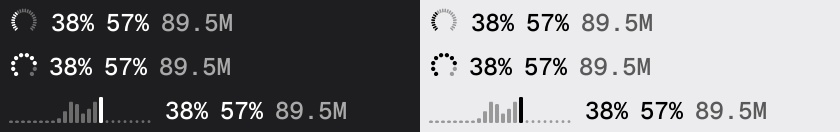
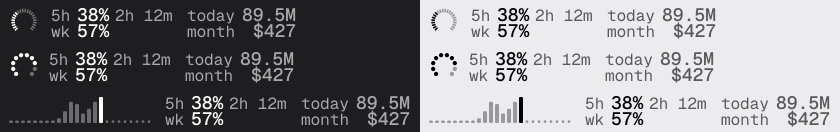
90% interface zoom, even grid columns; two-row menu bar with short labels

diff --git a/gui/menubar.go b/gui/menubar.go
@@ -6,6 +6,7 @@ import (
 	"image/color"
 	"image/png"
 	"math"
+	"strings"
 	"sync"
 
 	"golang.org/x/image/font"
@@ -40,6 +41,7 @@ type mbSeg struct {
 
 type mbOpts struct {
 	Style mbStyle
+	Rows  int // 2 stacks the values in two rows with their labels; 1 (or 0) keeps one line
 	Pace  bool
 	Icon  bool
 	Red   bool // turn red near the limit
@@ -53,6 +55,7 @@ const mbScale = 2 // @2x pixels per point; the image is 18 pt tall
 var (
 	mbFontOnce             sync.Once
 	mbFace, mbSmall, mbMid font.Face
+	mbRowFace, mbRowLabel  font.Face // the two-row layout's values and labels
 )
 
 func mbFonts() {
@@ -72,6 +75,8 @@ func mbFonts() {
 		mbFace = load("GeistMono-Medium.ttf", 12)
 		mbMid = load("GeistMono-Medium.ttf", 10.5)
 		mbSmall = load("Geist-SemiBold.ttf", 8.5)
+		mbRowFace = load("GeistMono-Medium.ttf", 9)
+		mbRowLabel = load("GeistMono-Regular.ttf", 8)
 	})
 }
 
@@ -80,6 +85,7 @@ type mbCanvas struct {
 	ink, alert, dim, soft *image.Alpha // soft: secondary values (62 %); dim: the gauge's rest (35 %)
 	w, h                  int
 	x                     float64 // pen position in pixels
+	red                   bool    // hot values draw in the alert layer
 }
 
 func newMBCanvas(w int) *mbCanvas {
@@ -215,6 +221,7 @@ func renderMenuBar(segs []mbSeg, o mbOpts) ([]byte, bool) {
 	mbFonts()
 	// Measure with a generous canvas, then crop to the drawn width.
 	cv := newMBCanvas(1600)
+	cv.red = o.Red
 	x := 2.0 * mbScale
 	gap := 6.0 * mbScale
 	mid := float64(cv.h) / 2
@@ -238,6 +245,11 @@ func renderMenuBar(segs []mbSeg, o mbOpts) ([]byte, bool) {
 		glyph = true
 	case o.Icon || len(segs) == 0:
 		x += cv.glyph(x) + 5*mbScale
+	}
+	if o.Rows == 2 && textSegs(segs) > 1 {
+		x = cv.rows(segs, x, gap, pick(glyph, bars, -1))
+		w := int(math.Ceil(x + 2*mbScale))
+		return composeMenuBar(cv, w, o)
 	}
 	n := 0
 	for i, s := range segs {
@@ -269,6 +281,96 @@ func renderMenuBar(segs []mbSeg, o mbOpts) ([]byte, bool) {
 	}
 	w := int(math.Ceil(x + 2*mbScale))
 	return composeMenuBar(cv, w, o)
+}
+
+func textSegs(segs []mbSeg) int {
+	n := 0
+	for _, s := range segs {
+		if len(s.Bars) == 0 {
+			n++
+		}
+	}
+	return n
+}
+
+// rows lays the values out in columns of two rows, each a dim label and its value, the values right-aligned in
+// their column; a bars item stays full height between columns, and an odd last value sits centred. skip is the
+// bars item already drawn as the leading glyph.
+func (cv *mbCanvas) rows(segs []mbSeg, x, gap float64, skip int) float64 {
+	mid := float64(cv.h) / 2
+	top, bottom := mid-0.75*mbScale, mid+7.6*mbScale // baselines of the two rows in an 18 pt bar
+	labelGap := 3.5 * mbScale
+	var col []mbSeg
+	n := 0
+	flush := func() {
+		if len(col) == 0 {
+			return
+		}
+		if n > 0 {
+			x += gap + 1*mbScale
+		}
+		// Three sub-columns: labels left-aligned, values right-aligned, countdowns left-aligned after them.
+		lw, vw, aw := 0.0, 0.0, 0.0
+		for _, s := range col {
+			lw = math.Max(lw, cv.label(s.Label, 0, 0, false))
+			vw = math.Max(vw, measure(mbRowFace, s.Value))
+			if s.After != "" {
+				aw = math.Max(aw, 3*mbScale+measure(mbRowLabel, s.After))
+			}
+		}
+		if lw > 0 {
+			lw += labelGap
+		}
+		for i, s := range col {
+			base := pick(len(col) == 1, mid+3.2*mbScale, pick(i == 0, top, bottom))
+			cv.label(s.Label, x, base, true)
+			v := measure(mbRowFace, s.Value)
+			hot := s.Hot && cv.red
+			cv.text(mbRowFace, s.Value, x+lw+vw-v, base, pick(s.Pct < 0 && !hot, cv.soft, cv.layer(hot, false)))
+			if s.After != "" {
+				cv.text(mbRowLabel, s.After, x+lw+vw+3*mbScale, base, cv.soft)
+			}
+		}
+		vw += aw
+		x += lw + vw
+		col = col[:0]
+		n++
+	}
+	for i, s := range segs {
+		if len(s.Bars) > 0 {
+			flush()
+			if i == skip {
+				continue
+			}
+			if n > 0 {
+				x += gap
+			}
+			x += cv.miniBars(x, s)
+			n++
+			continue
+		}
+		col = append(col, s)
+		if len(col) == 2 {
+			flush()
+		}
+	}
+	flush()
+	return x
+}
+
+// label draws (or only measures) a two-row label; words sit a narrow gap apart, not a mono space ("cl 5h").
+func (cv *mbCanvas) label(text string, x, base float64, draw bool) float64 {
+	w := 0.0
+	for i, part := range strings.Fields(text) {
+		if i > 0 {
+			w += 2 * mbScale
+		}
+		if draw {
+			cv.text(mbRowLabel, part, x+w, base, cv.soft)
+		}
+		w += measure(mbRowLabel, part)
+	}
+	return w
 }
 
 // miniBars paints a bars item (today by hour, the last 7 days): the current bar in ink, the rest dim, future

diff --git a/gui/menubar_test.go b/gui/menubar_test.go
@@ -15,7 +15,8 @@ func demoSegs() map[string][]mbSeg {
 	hours := []float64{0, 0, 0, 0, 0, 0, 0, 0, 2, 5, 9, 8, 4, 6, 9, 11, 7, 0, 0, 0, 0, 0, 0, 0}
 	return map[string][]mbSeg{
 		"claude": {{Label: "5h", Value: "38%", Pct: 38, Pace: 0.52}, {Label: "wk", Value: "57%", Pct: 57, Pace: 0.62}},
-		"three":  {{Label: "Claude 5h", Value: "38%", Pct: 38, Pace: 0.52}, {Label: "Codex 5h", Value: "12%", Pct: 12, Pace: 0.39}, {Label: "Cursor wk", Value: "44%", Pct: 44, Pace: 0.48}},
+		"three":  {{Label: "cl 5h", Value: "38%", Pct: 38, Pace: 0.52}, {Label: "cx 5h", Value: "12%", Pct: 12, Pace: 0.39}, {Label: "cu wk", Value: "44%", Pct: 44, Pace: 0.48}},
+		"four":   {{Label: "5h", Value: "38%", Pct: 38, Pace: 0.52, After: "2h 12m"}, {Label: "wk", Value: "57%", Pct: 57, Pace: 0.62}, {Label: "today", Value: "89.5M", Pct: -1}, {Label: "month", Value: "$427", Pct: -1}},
 		"today":  {{Label: "5h", Value: "38%", Pct: 38, Pace: 0.52}, {Label: "wk", Value: "57%", Pct: 57, Pace: 0.62}, {Label: "today", Value: "89.5M", Pct: -1}},
 		"hot":    {{Label: "5h", Value: "86%", Pct: 86, Pace: 0.7, Hot: true}, {Label: "wk", Value: "57%", Pct: 57, Pace: 0.62}},
 		"hours":  {{Bars: hours, Now: 15, Pct: -1}, {Label: "today", Value: "$55", Pct: -1}},
@@ -26,12 +27,13 @@ func demoSegs() map[string][]mbSeg {
 // TestMenuBarRenders checks every style draws something; with SIMPLETOKEN_SHOTS it also writes a contact sheet.
 func TestMenuBarRenders(t *testing.T) {
 	styles := []mbStyle{mbGauge, mbNumbers, mbBars}
-	names := []string{"claude", "three", "today", "hot", "hours", "empty"}
+	names := []string{"claude", "three", "four", "today", "hot", "hours", "empty"}
 	var rows []image.Image
 	for _, dark := range []bool{true, false} {
 		for _, n := range names {
-			for _, st := range styles {
-				o := mbOpts{Style: st, Pace: true, Icon: true, Red: true, Dark: dark}
+			for _, cell := range [6][2]int{{0, 1}, {1, 1}, {2, 1}, {0, 2}, {1, 2}, {2, 2}} {
+				st := styles[cell[0]]
+				o := mbOpts{Style: st, Rows: cell[1], Pace: true, Icon: true, Red: true, Dark: dark}
 				data, tmpl := renderMenuBar(demoSegs()[n], o)
 				img, err := png.Decode(bytes.NewReader(data))
 				if err != nil {
@@ -54,9 +56,9 @@ func TestMenuBarRenders(t *testing.T) {
 	if dir == "" {
 		return
 	}
-	sheet := image.NewNRGBA(image.Rect(0, 0, 3*300, len(rows)/3*44))
+	sheet := image.NewNRGBA(image.Rect(0, 0, 6*300, len(rows)/6*44))
 	for i, im := range rows {
-		x, y := (i%3)*300, (i/3)*44
+		x, y := (i%6)*300, (i/6)*44
 		draw.Draw(sheet, image.Rect(x, y, x+300, y+44), im, image.Point{}, draw.Src)
 	}
 	f, _ := os.Create(filepath.Join(dir, "menubar.png"))

diff --git a/internal/settings/settings.go b/internal/settings/settings.go
@@ -55,6 +55,7 @@ type Settings struct {
 	MenuBarShowIcon   bool     `json:"menuBarShowIcon"`
 	MenuBarShowPace   bool     `json:"menuBarShowPace"`
 	MenuBarShowReset  bool     `json:"menuBarShowReset"`
+	MenuBarRows       int      `json:"menuBarRows"` // 1: one line; 2: values stacked in two rows with short labels
 
 	// Panel
 	PanelSections   []string `json:"panelSections"`
@@ -111,13 +112,16 @@ var Cards = []string{
 var DefaultHidden = []string{"stat.totalCost", "stat.messages", "stat.topModel", "stat.weekday"}
 
 // Default returns the settings of a fresh install.
+// maxMenuBarItems fills two rows of two columns.
+const maxMenuBarItems = 4
+
 func Default() Settings {
 	return Settings{
 		ClickOpensPanel: true, Range: "1M", Metric: "tokens", AutoUpdate: true,
 		Theme: "system", Palette: "graphite", SeriesColors: "vendor", VendorMarks: "color", PanelMaterial: "glass",
 		LiveRefreshSeconds: 30, FullRefreshMinutes: 15,
 		LimitShowUsed: true, AlertThresholds: []float64{50, 80}, LimitShowPace: true, LimitShowModelBuckets: true,
-		MenuBarItems: []string{"claude.session"}, MenuBarStyle: "gauge", MenuBarAlertColor: true, MenuBarShowIcon: true, MenuBarShowPace: true,
+		MenuBarItems: []string{"claude.session"}, MenuBarStyle: "gauge", MenuBarRows: 2, MenuBarAlertColor: true, MenuBarShowIcon: true, MenuBarShowPace: true,
 		PanelSections: []string{"claude", "codex", "today", "models", "week"}, PanelWidth: 340, PanelLimitStyle: "gauges",
 		PanelListCount: 5, PanelTodayStyle: "cumulative", PanelShowResets: true,
 		ModelColorOverrides: map[string]string{}, ToolColorOverrides: map[string]string{}, ModelAliases: map[string]string{},
@@ -203,8 +207,11 @@ func (s *Settings) normalize() {
 	default:
 		s.MenuBarStyle = "gauge"
 	}
-	if len(s.MenuBarItems) > 3 {
-		s.MenuBarItems = s.MenuBarItems[:3]
+	if s.MenuBarRows != 1 {
+		s.MenuBarRows = 2
+	}
+	if len(s.MenuBarItems) > maxMenuBarItems {
+		s.MenuBarItems = s.MenuBarItems[:maxMenuBarItems]
 	}
 	// Every known card appears once in the order (new cards are appended).
 	seen := map[string]bool{}

diff --git a/gui/settings_page.go b/gui/settings_page.go
@@ -333,8 +333,9 @@ func (a *ctrl) setMenuBar(c *ui.Context, p palette) {
 		})
 		a.sGroup(c, p, "mb", func() {
 			a.segRow(c, p, "style", L("Style"), L("Gauge glyph, plain numbers, or today's hours as bars"), &s.MenuBarStyle, [][2]string{{"gauge", "Gauge"}, {"numbers", "Numbers"}, {"bars", "Bars"}})
-			a.sRow(c, p, "items", L("Items"), L("Up to three, left to right. Drag to reorder."), func() {
-				a.orderList(c, p, "list", &s.MenuBarItems, menuBarItems, 3, func(id string) { swatch(c, a.itemColor(p, id), 7) })
+			a.intSeg(c, p, "rows", L("Layout"), L("Two rows stack the values with short labels and take less width"), &s.MenuBarRows, []int{2, 1}, func(v int) string { return pick(v == 1, L("One line"), L("Two rows")) })
+			a.sRow(c, p, "items", L("Items"), L("Up to four; two rows fill each column top to bottom. Drag to reorder."), func() {
+				a.orderList(c, p, "list", &s.MenuBarItems, menuBarItems, 4, func(id string) { swatch(c, a.itemColor(p, id), 7) })
 			})
 			a.thresholdRow(c, p)
 			a.toggleRow(c, p, "reset", L("Show reset countdown"), L("Adds “2h 12m” after a session value"), &s.MenuBarShowReset)
@@ -388,7 +389,7 @@ func (a *ctrl) thresholdRow(c *ui.Context, p palette) {
 // mbOptions are the renderer's options from the settings.
 func (a *ctrl) mbOptions(dark, preview bool) mbOpts {
 	s := a.m.s
-	return mbOpts{Style: mbStyle(s.MenuBarStyle), Pace: s.MenuBarShowPace, Icon: s.MenuBarShowIcon, Red: s.MenuBarAlertColor, Dark: dark, Preview: preview}
+	return mbOpts{Style: mbStyle(s.MenuBarStyle), Rows: s.MenuBarRows, Pace: s.MenuBarShowPace, Icon: s.MenuBarShowIcon, Red: s.MenuBarAlertColor, Dark: dark, Preview: preview}
 }
 
 // menuBarPreview shows a rendered item on a strip of the bar's colour (a template image is tinted like macOS does).

diff --git a/gui/app.go b/gui/app.go
@@ -583,11 +583,16 @@ func (a *ctrl) openWindow(settingsPage bool) {
 
 // ── Menu bar item ──
 
+// mbItemLabels are the short codes beside values in the two-row menu bar. They stay English in every language:
+// the menu bar's mono face has no CJK glyphs, and the codes are as short as the values.
 var mbItemLabels = map[string]string{
-	"claude.session": "5h", "claude.weekly": "wk", "claude.fable": "Fable", "codex.session": "5h", "codex.weekly": "wk",
+	"claude.session": "5h", "claude.weekly": "wk", "claude.fable": "fable", "codex.session": "5h", "codex.weekly": "wk",
 	"cursor.weekly": "wk", "today.tokens": "today", "today.cost": "today", "month.cost": "month", "claude.reset": "reset",
 	"today.hours": "today", "week.days": "7d",
 }
+
+// mbProviderCodes prefix a limit's code when the menu bar shows more than one provider's limits.
+var mbProviderCodes = map[string]string{"claude": "cl", "codex": "cx", "cursor": "cu"}
 
 // menuBarSegs turns the chosen items into segments for the renderer.
 func (a *ctrl) menuBarSegs() []mbSeg {
@@ -601,7 +606,7 @@ func (a *ctrl) menuBarSegs() []mbSeg {
 	}
 	var segs []mbSeg
 	for _, it := range m.s.MenuBarItems {
-		label := L(mbItemLabels[it])
+		label := mbItemLabels[it]
 		prov, kind, _ := cutDot(it)
 		switch it {
 		case "today.tokens":
@@ -637,7 +642,7 @@ func (a *ctrl) menuBarSegs() []mbSeg {
 			pace, _ := w.Elapsed(now)
 			hot := w.UsedPercent >= m.s.TopThreshold()
 			if len(providers) > 1 {
-				label = limits.Provider(prov).DisplayName() + " " + label
+				label = mbProviderCodes[prov] + " " + label
 			}
 			seg := mbSeg{Label: label, Value: itoa(int(used+0.5)) + "%", Pct: used, Pace: pace, Hot: hot}
 			if m.s.MenuBarShowReset && w.Kind == limits.Session && w.ResetsAt != nil {

diff --git a/gui/window.go b/gui/window.go
@@ -63,6 +63,7 @@ const (
 func (a *ctrl) windowView(c *ui.Context) {
 	p := a.palette(c)
 	c.SetTheme(p.theme(c.Theme()))
+	c.SetZoom(uiZoom)
 	w := a.w
 	c.OnShortcut(ui.Cmd, ui.KeyR, a.refreshAll)
 	c.OnShortcut(ui.Cmd, ui.KeyComma, func() { w.settings = true })
@@ -323,7 +324,8 @@ func (a *ctrl) pack(n int) ([]placed, int) {
 
 func columnsFor(w float32) int {
 	n := int((w + cellGap) / (minColW + cellGap))
-	return max(2, min(8, n))
+	// Even counts only: M, L and W (2 and 4 wide) tile without holes, so 5 columns become 4.
+	return max(2, min(8, n&^1))
 }
 
 func (a *ctrl) dashboard(c *ui.Context, p palette) {

diff --git a/gui/panel.go b/gui/panel.go
@@ -24,6 +24,7 @@ var panelSections = [][2]string{
 func (a *ctrl) panelView(c *ui.Context) {
 	p := a.palette(c).panelStyle()
 	c.SetTheme(p.theme(c.Theme()))
+	c.SetZoom(uiZoom)
 	if c.Shortcut(0, ui.KeyEscape) {
 		a.closePanel()
 	}
@@ -75,7 +76,7 @@ func (a *ctrl) panelView(c *ui.Context) {
 	})
 	// Size the flyout to the content (it opens with the last measured height).
 	if h := root.Bounds().H; h > 0 && a.panelResize != nil {
-		a.panelResize(h)
+		a.panelResize(h * uiZoom) // content DIPs → window points
 	}
 }
 

diff --git a/gui/readme_test.go b/gui/readme_test.go
@@ -61,8 +61,8 @@ func TestReadmeImages(t *testing.T) {
 	sheet := image.NewNRGBA(image.Rect(0, 0, 2*cell, len(styles)*44))
 	for i, st := range styles {
 		for j, dark := range []bool{true, false} {
-			o := mbOpts{Style: st, Pace: true, Icon: true, Red: true, Dark: dark}
-			segs := demoSegs()["today"]
+			o := mbOpts{Style: st, Rows: 2, Pace: true, Icon: true, Red: true, Dark: dark}
+			segs := demoSegs()["four"]
 			if st == mbBars {
 				segs = append(demoSegs()["hours"][:1], segs...)
 			}

diff --git a/gui/theme.go b/gui/theme.go
@@ -195,3 +195,8 @@ func pick[T any](cond bool, a, b T) T {
 }
 
 func clamp01(v float64) float64 { return math.Max(0, math.Min(1, v)) }
+
+// uiZoom draws the window and the panel at 90 % of the design's DIPs (owner decision 2026-11-05: the design's
+// sizes read too large on screen). Layout stays in design units; mygo renders text and vectors at the zoomed
+// resolution, so nothing is a scaled bitmap.
+const uiZoom = 0.9

diff --git a/AGENTS.md b/AGENTS.md
@@ -32,11 +32,12 @@ Implementation detail: [docs/agent-reference.md](docs/agent-reference.md).
 - Glow only for what is happening now (the live end point, the gauge needle, today's cell, refreshing) and for over-threshold limits. Nothing animates at idle; only a manual refresh spins.
 - Colour follows the model family, never its rank: opus clay, sonnet dark clay, gpt / codex slate, gemini violet, haiku rose, fable violet; the rest fold into Other (ink). Tools: Claude Code clay, Codex slate, Gemini CLI violet, Cursor and Grok ink. The Ink mode uses the ink ladder by 30-day rank. No yellow family; no teal, mint or green for a series (Codex never green). Light values were validated on white, dark on #161616: run the dataviz validator before adding a colour.
 - A model's name always carries its vendor's logo in the model's colour. Brand logos are mono SVGs tinted by the UI (normalise SVG path data when adding one).
+- The window and the panel render at 90 % zoom (`uiZoom`, owner decision 2026-11-05); layout values stay the design's. The grid uses even column counts.
 - Big figures: Geist Regular, −0.04 em, tabular digits; a gauge centres its figure and hangs the % off the right. Labels and numbers: Geist Mono.
 - Limit gauge: 270°, 42 ticks; used in the vendor colour, at-this-pace-by-reset in the same hue at 30 %, a glowing needle for time gone; red with "!" over the threshold; dotted with "—" without data; no needle when stale. Forecast: a straight line once 5 % of a window has passed, Claude usage history before (owner decision 2026-10-26).
 - Colour slots and folding follow the trailing 30 days, never the selected range. Token numbers honour short / exact except axis ticks (always short).
 - Dashboard: 184-pt rows, columns of at least 290 pt; cards S 1×1, M 2×1, L 2×2, W 4×1, each size its own layout; edit mode (grip, size chips, remove, drawer); options on the card back. Settings live in the main window: seven sections, two columns.
-- Menu bar: one image (gauge, numbers or bars), a template image unless a value is over the alert threshold. Limit alerts post once per window period, at the threshold and at 95 %.
+- Menu bar: one image (gauge, numbers or bars), up to four values in two rows with short English codes (default) or one line; a template image unless a value is over the alert threshold. Limit alerts post once per window period, at the threshold and at 95 %.
 
 ## Performance budget
 

diff --git a/README.md b/README.md
@@ -56,7 +56,7 @@ Charts are drawn with a shared kit of thin marks that animate when you switch th
 
 ### Menu bar
 
-Show any mix of Claude, Codex and Cursor limits, today's tokens or cost, this month's cost, the session reset countdown, and small charts of today by hour and the last seven days. Three styles fit up to three of them into the menu bar: a tick gauge, plain numbers, or today's hours as bars. The item is a template image that follows the menu bar, and turns red when a limit passes your alert threshold.
+Show any mix of Claude, Codex and Cursor limits, today's tokens or cost, this month's cost, the session reset countdown, and small charts of today by hour and the last seven days. Pick up to four and a style: a tick gauge, plain numbers, or today's hours as bars. The values stack in two rows with short labels (5h, wk, today), or sit in one line. The item is a template image that follows the menu bar, and turns red when a limit passes your alert threshold.
 
 <p align="center">
   <img src="docs/images/menubar.png" width="840" alt="Menu bar styles on a dark and a light menu bar">
